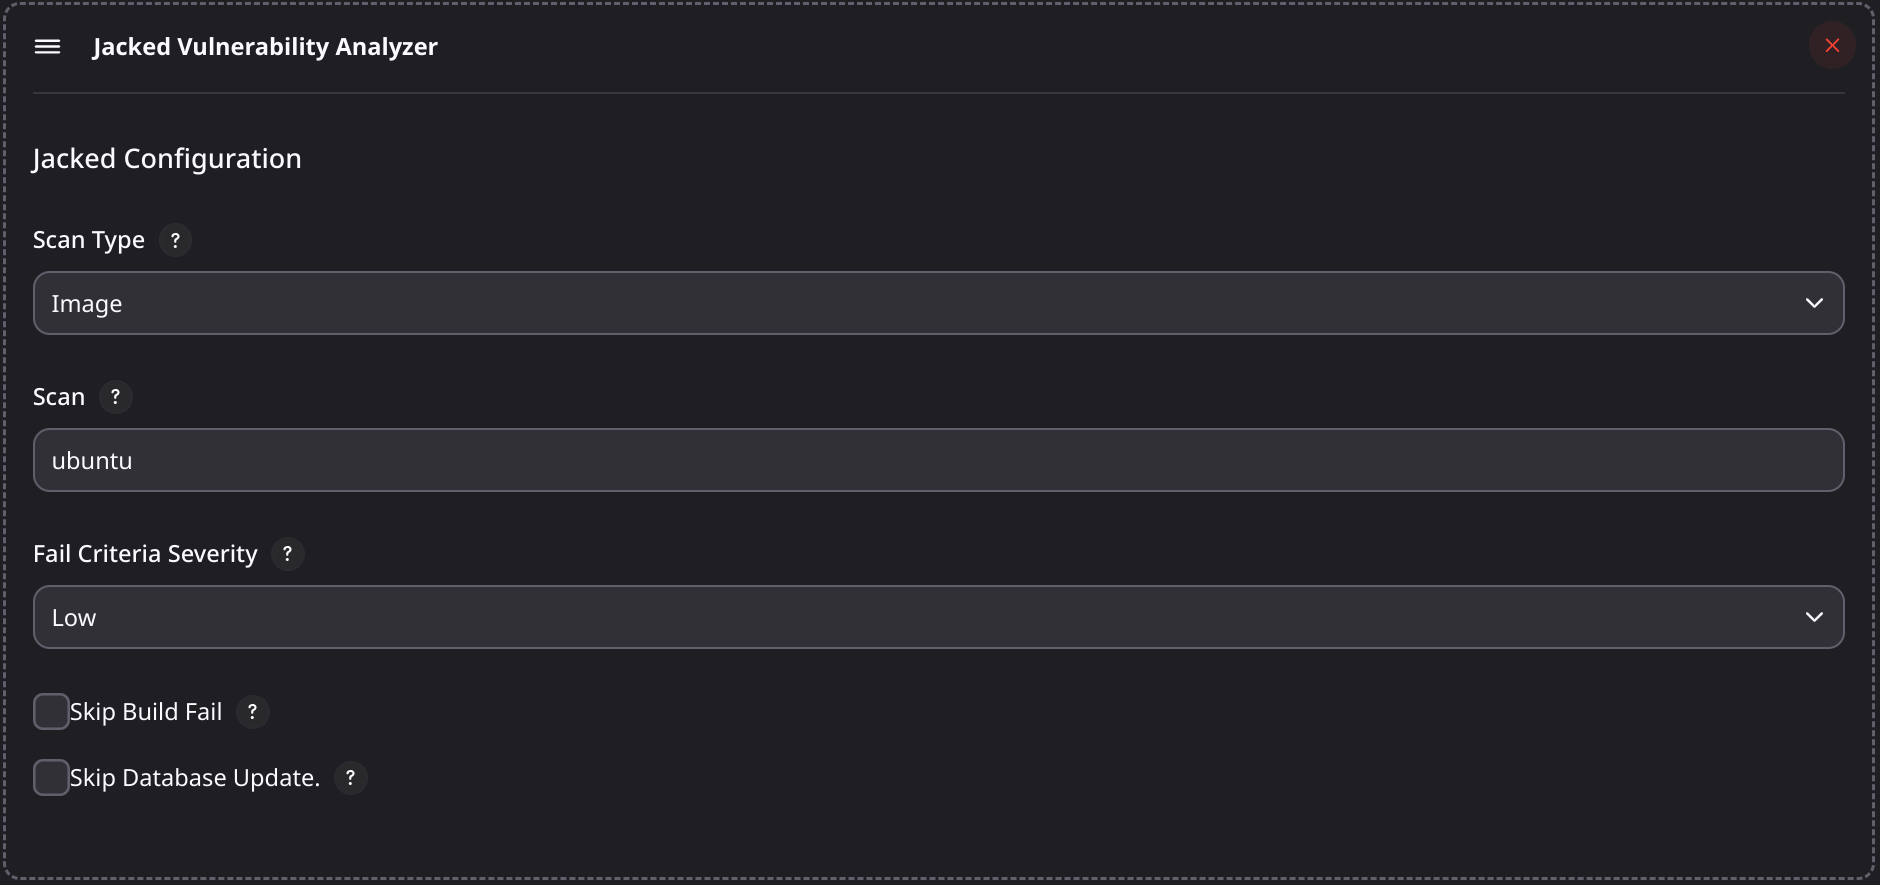
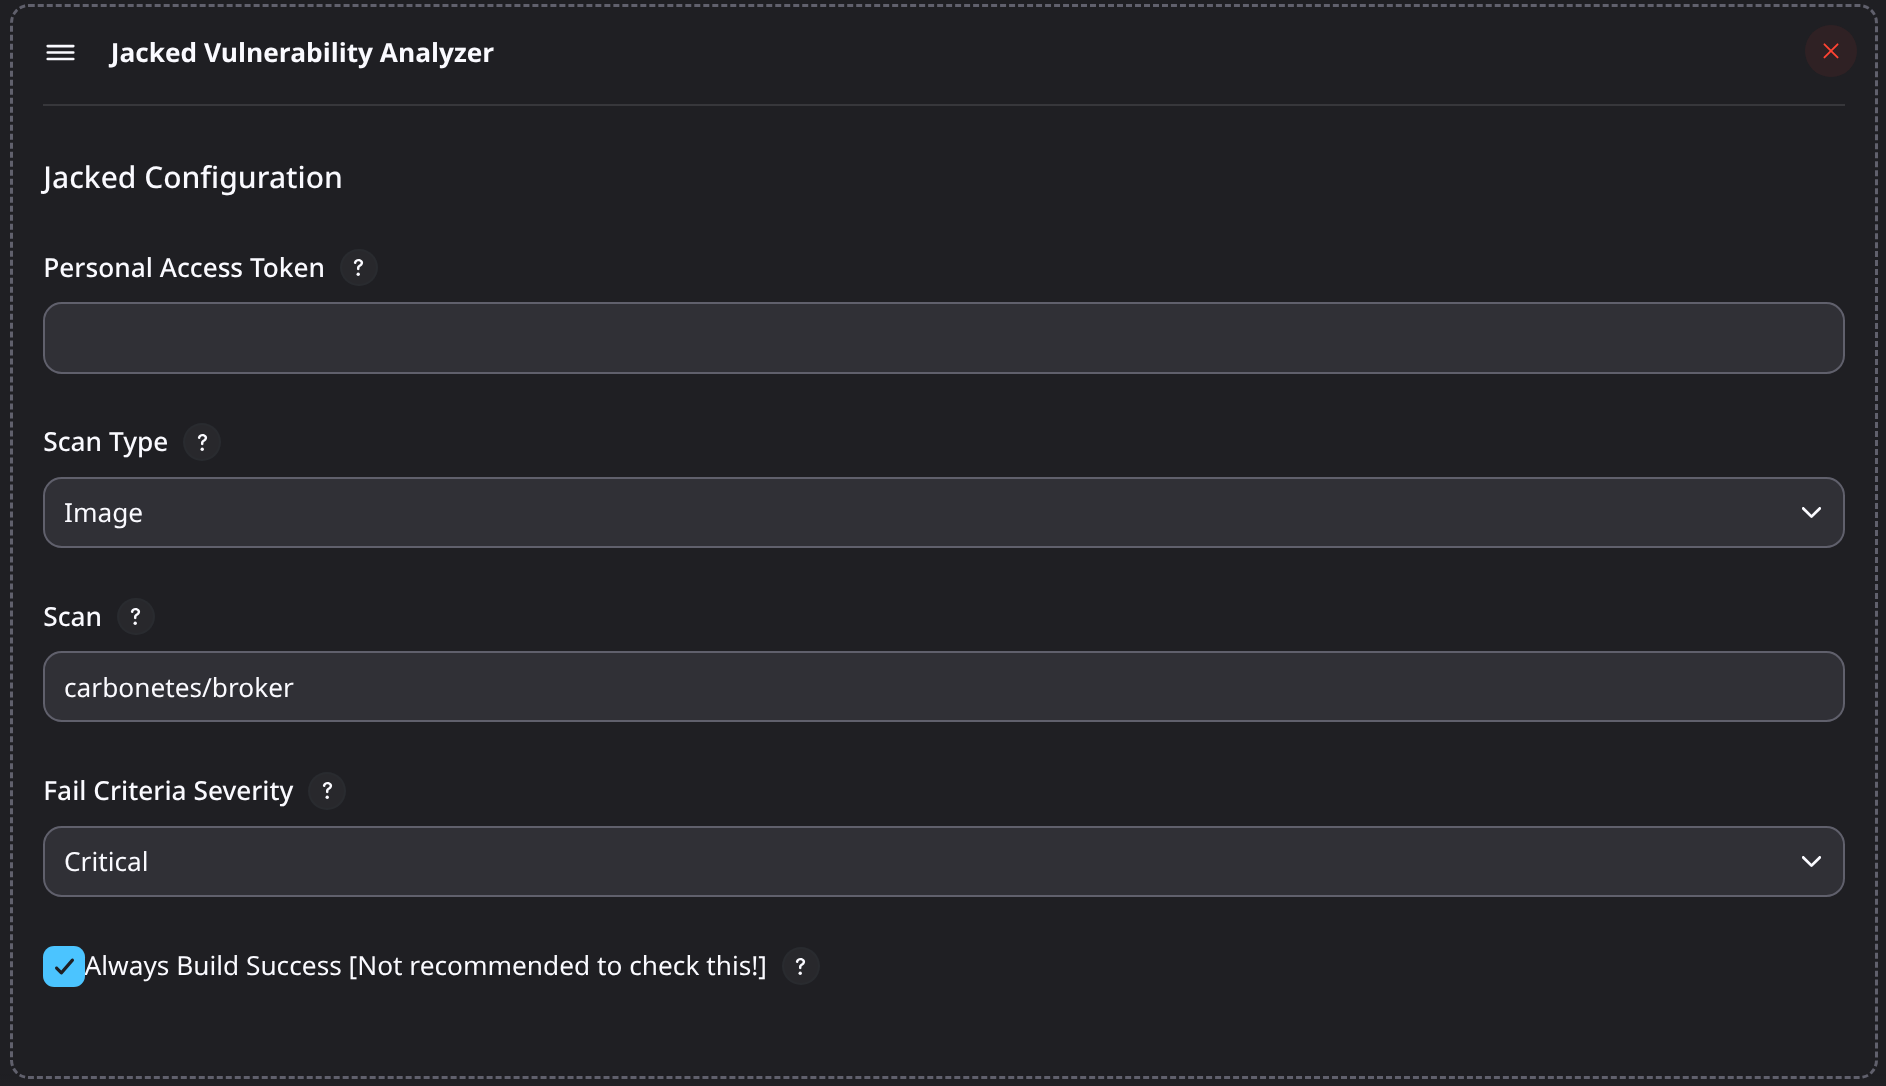
chore: update input config description and flags

diff --git a/src/main/resources/io/jenkins/plugins/jacked/Jacked/help-scanType.html b/src/main/resources/io/jenkins/plugins/jacked/Jacked/help-scanType.html
@@ -2,7 +2,7 @@
     <b>Scan Type:</b> Image, Directory, Tar File.
     <ul>
         <li><b>Image:</b> Provide the image:tag.</li>
-        <li><b>Directory:</b> Provide the target directory path.</li>
-        <li><b>Tar File:</b> Provide the target tar file path.</li>
+        <li><b>File System:</b> Provide the target directory path.</li>
+        <li><b>Tarball:</b> Provide the target tarball file path.</li>
     </ul>
 </div>

diff --git a/src/main/java/io/jenkins/plugins/jacked/arguments/SetArguments.java b/src/main/java/io/jenkins/plugins/jacked/arguments/SetArguments.java
@@ -14,6 +14,7 @@ public class SetArguments {
     private static final String JACKED = "jacked";
     private static final String SCANTYPE = "--scan-type";
     private static final String FAILCRITERIA = "--fail-criteria";
+    private static final String SKIPFAIL = "--skip-fail";
     // API
     private static final String TOKEN = "--token";
     private static final String PLUGIN = "--plugin-type";
@@ -52,6 +53,10 @@ public class SetArguments {
 
         cmdArgs.add(ENVIRONMENT);
         cmdArgs.add("test");
+
+        if (jackedConfig.getSkipFail()) {
+            cmdArgs.add(SKIPFAIL);
+        }
 
 
         return cmdArgs.toArray(new String[0]);

diff --git a/src/main/java/io/jenkins/plugins/jacked/Jacked.java b/src/main/java/io/jenkins/plugins/jacked/Jacked.java
@@ -162,8 +162,8 @@ public class Jacked extends Builder implements SimpleBuildStep {
             return new ListBoxModel(
                 new Option("-- Select --", ""),
                 new Option("Image", "image"),
-                new Option("Directory", "directory"),
-                new Option("Tar File", "tar")
+                new Option("File System", "filesystem"),
+                new Option("Tar Ball", "tarball")
             );
         }
 

diff --git a/README.md b/README.md
@@ -29,21 +29,15 @@ It automatically sets up all required dependencies to run Jacked.
 # Output
 <img src="assets/sample_fail_output.png" alt="Jacked plugin configuration" />
 
-Provides the following:
-- Show a list of packages.
-- `Analyzing BOM`: Showing vulnerabilities found and providing recommendations to fix them.
-- Assessment Result: Pass or Fail based on the selected fail criteria severity type.
-- Saves output file on the workspace in every build. `jacked_result_$(JOBNAME)_$(BUILDNUMBER).txt`
-- Saves Stored Values JSON File for Environment Variables. `jackedTmpDir/jacked_file.json`
 
 # Plugin Configuration Fields and Descriptions
 ## Scan Type
 <b>Description: </b>Specified the input on scan field based on the selected scan type.
 <br>
 <b>Option:</b>
-- `Image`: Provide the image to be scanned.
-- `Directory`: Provide the target directory path to be scanned.
-- `Tar File`: Provide the target tar file path to be scanned.
+- `Image`: Provide the image:tag.
+- `File System`: Provide the target filesystem directory path.
+- `Tarball`: Provide the target tarball file path.
 ## Scan
 <b>Input: </b> Image name, Directory path, or tar file path.
 ## Fail Criteria Severity
@@ -60,12 +54,7 @@ Provides the following:
 ## Skip Build Fail
 Default value is `false / unchecked`.
 <br>
-<b>Warning:</b> If the value is checked, it will restrict the plugin from failing the build based on the assessment result.
-
-## Skip Database Update
-Default value is `false / unchecked`.
-<br>
-<b>Warning:</b> If the value is checked, it will skip check database update while scanning.
+<b>Warning:</b> If the value is checked, it will restrict the plugin from failing the build based on the analysis result.
 
 # Usage as Pipeline
 ```yaml
@@ -76,204 +65,15 @@ pipeline {
             steps {
                 script {
                     jacked(
-                        scanType: 'image',           // Choose Scan Type: image, directory, or tar.
-                        scanName: 'ubuntu',          // Input: Image name, Directory path, or tar file path.
-                        severityType: 'high',        // Threshold to fail the build.
-                        skipFail: false,             // Default as false.
-                        skipDbUpdate: false          // Default as false.
+                        scanType: 'image',           // Choose Scan Type: image, filesystem, or tarball.
+                        scanName: 'ubuntu',          // Input: image:tag, filesystem dir path, or tarball file path.
+                        severityType: 'high',        // Choose Fail Criteria Severity as a threshold.
+                        skipFail: false,             // Default as false. Always Build Success [Not recommended to set true!]
                     )
                 }
             }
         }
     }
-}
-```
-## Pipeline Usage Guide: Accessing Stored Values for Your Environment Variable Usage.
-Welcome to this guide on accessing stored values for your environment variable usage. In this document, we will explore how you can retrieve and utilize stored values effectively in your environment variables within your applications or scripts.
-
-### Why Environment Variables?
-Environment variables provide a flexible way to store and manage configuration values that are essential for your applications or scripts. They allow you to separate configuration from code, making it easier to deploy and maintain your software across different environments.
-
-### Storing Values in Jenkins
-[Jenkins](https://www.jenkins.io) is a popular open-source automation server that enables continuous integration and delivery (CI/CD) workflows. It offers various features, including the ability to store and manage environment variables.
-
-### Retrieving Stored Values in Jenkins
-One common use case is retrieving stored values from Jenkins and utilizing them as environment variables within your pipeline scripts. Jenkins provides convenient methods to access and utilize these values during the build process.
-
-### Example: Reading JSON Files
-We'll walk you through an example of reading values from a JSON file stored in Jenkins and using them as environment variables. This can be particularly useful for storing and accessing configuration settings or external dependencies.
-
-### Conclusion
-Understanding how to access stored values for your environment variable usage is crucial for building robust and configurable applications or scripts. By leveraging tools like Jenkins and following best practices, you can streamline your development process and ensure smooth deployments across different environments.
-
-Now, let's dive into the details and learn how to effectively access stored values in your environment variables!
-
-## Pipeline Usage Guide: Adding catchError() Block.
-```yaml
-catchError(buildResult: 'SUCCESS', stageResult: 'FAILURE') { // Jacked Scan script.. }
-```
-In this script, we have added a catchError() block to ensure that all stages within the pipeline are executed, regardless of failures. By default, when a specific stage fails, the pipeline skips all subsequent stages. However, with the catchError() block in place, this behavior is overridden.
-<br><br>
-Since we are utilizing a vulnerability scanner, it is expected that the build may fail based on the assessment results. This is important to inform users that vulnerabilities have been detected and need to be addressed.
-
-### Here's what it looks like when the catchError block added on our pipeline script:
-```yaml
-stage('Jacked Scan') {
-    steps {
-        catchError(buildResult: 'SUCCESS', stageResult: 'FAILURE') { // Prevents other stages to be skipped when JACKED ASSESSMENT is failed
-            script {
-                jacked scanType: 'images',          // Choose Scan Type: image, directory, or tar.
-                scanName: 'alpine',                 // Input: Image name, Directory path, or tar file path.
-                severityType: 'high',               // Select a threshold that will fail the build when equal to or above the severity found in the results. 
-                                                    // Severity: critical, high, medium, low, negligible, unknown.
-                skipFail: false,                    // Default as false. Skip build to fail based on the assessment.
-                skipDbUpdate: false,                // Default as false. Skip Database Update when scanning.
-            }
-        }
-    }
-}
-```
-Once implemented we are now ready to add more stages based on your usage to our pipeline script.
-<br>
-## Pipeline Usage Guide: Adding Read JSON File Stage to Access Stored Values for Environment Variable Usage.
-### `NOTE: Prerequisite Plugin:` Pipeline Utility Steps 2.15.4 or higher to access `readJSON`
-In this pipeline script, we have included a stage called "Read JSON" to facilitate the extraction of stored values from a JSON file and utilize them as environment variables. This stage allows you to access multiple values from the JSON file and incorporate them into your pipeline's environment.
-<br><br>
-By using the readJSON step, we can retrieve various values from the JSON file and assign them to variables. In addition to the "buildStatus" value, we can also extract other key-value pairs such as "jackedAssessment,", "assessmentSummary" "scanType," and "scanName" from the JSON file.
-```yaml
-    def jackedFilePath = "${env.WORKSPACE}/jackedTmpDir/jacked_file.json"
-    def json = readJSON file: jackedFilePath
-    def jackedAssessment = json.jackedAssessment
-    def assessmentSummary = json.assessmentSummary
-    def scanType = json.scanType
-    def scanName = json.scanName
-    def buildStatus = json.buildStatus
-
-    // Optional: Display Value, File Path
-    echo "Build Status: ${buildStatus}"
-    echo "File path: ${jackedFilePath}"
-
-    // Set the value as a global environment variable
-    env.BUILD_STATUS = buildStatus
-    env.jackedAssessment = jackedAssessment
-    env.assessmentSummary = assessmentSummary
-    env.scanType = scanType
-    env.scanName = scanName
-```
-
-Once the values are extracted, we can echo them to provide visibility and confirmation of the retrieved data. Furthermore, these values can be set as global environment variables, allowing you to utilize them across different stages or post-processing actions within your pipeline.
-```yaml
-    // Set the value as a global environment variable
-    env.BUILD_STATUS = buildStatus
-    env.jackedAssessment = jackedAssessment
-    env.assessmentSummary = assessmentSummary
-    env.scanType = scanType
-    env.scanName = scanName
-
-    // Optional: Display Value
-    echo "Build Status: ${buildStatus}"
-
-    // Display File Path
-    def jackedFilePath = "${env.WORKSPACE}/jackedTmpDir/jacked_file.json"
-    echo "File path: ${jackedFilePath}"
-```
-### Accessing JSON Stored Key-value Pairs for Environment Variables.
-```yaml
-stage('Read JSON') {
-    steps {
-        script {
-            def jackedFilePath = "${env.WORKSPACE}/jackedTmpDir/jacked_file.json"
-            def json = readJSON file: jackedFilePath
-            def jackedAssessment = json.jackedAssessment
-            def assessmentSummary = json.assessmentSummary
-            def scanType = json.scanType
-            def scanName = json.scanName
-            def buildStatus = json.buildStatus
-
-            // Optional: Display Value, File Path
-            echo "Build Status: ${buildStatus}"
-            echo "File path: ${jackedFilePath}"
-
-            // Set the value as a global environment variable
-            env.BUILD_STATUS = buildStatus
-            env.jackedAssessment = jackedAssessment
-            env.assessmentSummary = assessmentSummary
-            env.scanType = scanType
-            env.scanName = scanName
-        }
-    }
-}
-```
-<br><br>
-With the flexibility provided by the "Read JSON" stage, you can effortlessly access and utilize multiple stored values from a JSON file, empowering you to customize your pipeline's behavior based on the extracted information.
-
-## Here's the overall script guide from Jacked Scan Stage and Read JSON for Environment Variables.
-```yaml
-pipeline {
-    agent any
-    stages {
-        stage('Jacked Scan') {
-            steps {
-                catchError(buildResult: 'SUCCESS', stageResult: 'FAILURE') {
-                    script {
-                        jacked scanType: 'image',       // Choose Scan Type: image, directory, or tar.
-                        scanName: 'alpine',             // Input: Image name, Directory path, or tar file path.
-                        severityType: 'high',           // Select a threshold that will fail the build when equal to or above the severity found in the results. 
-                                                        // Severity: critical, high, medium, low, negligible, unknown.
-                        skipFail: false,                // Default as false. Skip build to fail based on the assessment.
-                        skipDbUpdate: false,            // Default as false. Skip Database Update when scanning.
-                        
-                    }
-                }
-            }
-        }
-        stage('Read JSON') {
-            steps {
-                catchError(buildResult: 'SUCCESS', stageResult: 'FAILURE') {
-                    script {
-                        def jackedFilePath = "${env.WORKSPACE}/jackedTmpDir/jacked_file.json"
-                        def json = readJSON file: jackedFilePath
-                        def jackedAssessment = json.jackedAssessment
-                        def assessmentSummary = json.assessmentSummary
-                        def scanType = json.scanType
-                        def scanName = json.scanName
-                        def buildStatus = json.buildStatus
-
-                        // Optional: Display Value, File Path
-                        echo "Build Status: ${buildStatus}"
-                        echo "File path: ${jackedFilePath}"
-
-                        // Set the value as a global environment variable
-                        env.BUILD_STATUS = buildStatus
-                        env.jackedAssessment = jackedAssessment
-                        env.assessmentSummary = assessmentSummary
-                        env.scanType = scanType
-                        env.scanName = scanName
-                    }
-                }
-            }
-        }
-    }
-    post {
-        always {
-            // Access the global environment variable
-            echo "jackedAssessment: ${env.jackedAssessment}"
-            echo "assessmentSummary: ${env.assessmentSummary}"
-            echo "scanType: ${env.scanType}"
-            echo "scanName: ${env.scanName}"
-            echo "Build Status: ${env.BUILD_STATUS}"
-        }
-    }
-}
-```
-### Here's a sample of the stored values inside a JSON file named `jacked_file.json` that is generated inside workspace directory name: `jackedTmpDir`.
-```yaml
-{
-    "scanName":"ubuntu",
-    "jackedAssessment":"failed",
-    "assessmentSummary":"Failed:     6 out of 10 found vulnerabilities failed the assessment",
-    "scanType":"image",
-    "buildStatus":"failed"
 }
 ```
 # LICENSE
